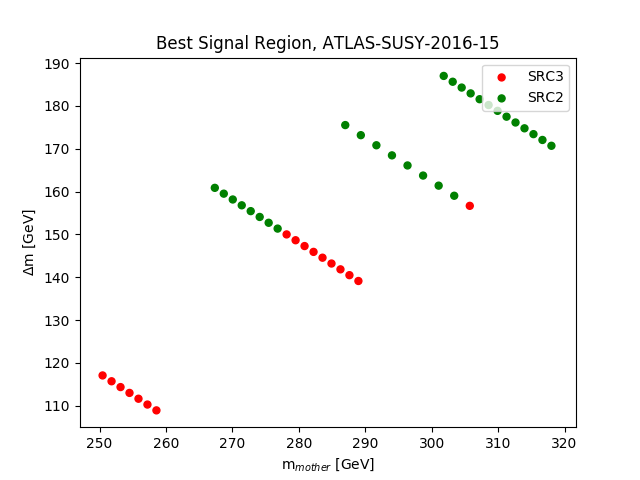
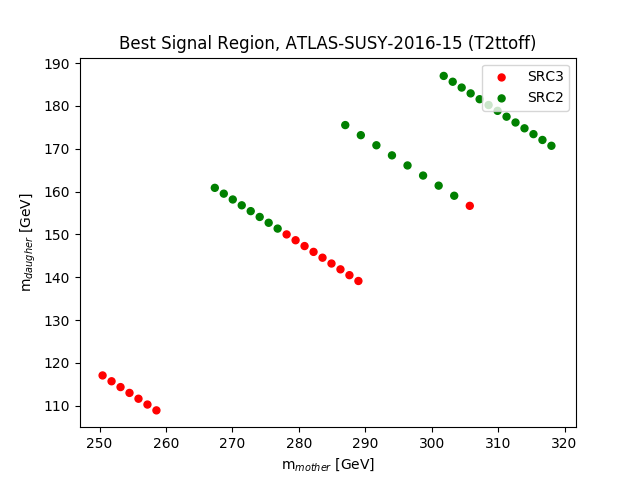
updated script

Changed region(s): [[0.1875, 0.0625, 0.8438, 0.125], [0.0312, 0.4062, 0.0625, 0.5938]]

diff --git a/covariances/drawBestSRs.py b/covariances/drawBestSRs.py
@@ -7,6 +7,7 @@ import matplotlib.pyplot as plt
 import copy
 import numpy
 import importlib
+import warnings
 
 def convertNewAxes ( newa ):
     """ convert new types of axes (dictionary) to old (lists) """
@@ -22,6 +23,7 @@ def convertNewAxes ( newa ):
     return None
 
 def draw( validationfile ):
+    warnings.simplefilter("ignore")
     anaId = "???"
     coll = "CMS"
     p = validationfile.find ( "ATLAS" )
@@ -31,19 +33,28 @@ def draw( validationfile ):
         p = validationfile.find ( "CMS" )
     p2 = validationfile.find("-eff" )
     anaId = validationfile[p+1+len(coll):p2]
+    p3 = validationfile.find("validation/")
+    p4 = validationfile[p3+10:].find("_")
+    topo = validationfile[p3+10+1:p3+p4+10]
+    print ( "plotting %s (%s)" % ( anaId, topo ) )
     spec = importlib.util.spec_from_file_location( "output", validationfile )
     output_module = importlib.util.module_from_spec(spec)
     spec.loader.exec_module(output_module)
     validationData = output_module.validationData
     bestSRs = []
     nbsrs = []
+    skipped, err = 0, None
     for point in validationData:
         if "error" in point:
+            skipped += 1
+            err = point["error"]
             # print ( "skipping %s: %s" % ( point["slhafile"], point["error"] ) )
             continue
         axes = convertNewAxes ( point["axes"] )
         bestSRs.append ( ( axes[1], axes[0], point["dataset"] ) )
         nbsrs.append ( ( axes[1], axes[0], 0 ) )
+    if skipped > 0:
+        print ( "skipped %d points: %s" % ( skipped, err ) )
     bestSRs.sort()
     nbsrs = numpy.array ( nbsrs )
     srDict, nrDict = {}, {}
@@ -68,8 +79,9 @@ def draw( validationfile ):
         plt.scatter ( x, y, s=25, c=[colors[n]]*len(x), label=nrDict[n] )
     plt.legend( loc="upper right" )
     plt.xlabel ( "m$_{mother}$ [GeV]" )
-    plt.ylabel ( "$\\Delta$m [GeV]" )
-    plt.title ( "Best Signal Region, %s" % anaId )
+    plt.ylabel ( "m$_{daughter}$ [GeV]" )
+    #plt.ylabel ( "$\\Delta$m [GeV]" )
+    plt.title ( "Best Signal Region, %s (%s)" % ( anaId, topo ) )
     plt.savefig ( "bestSRs.png" )
     
 if __name__ == "__main__":
